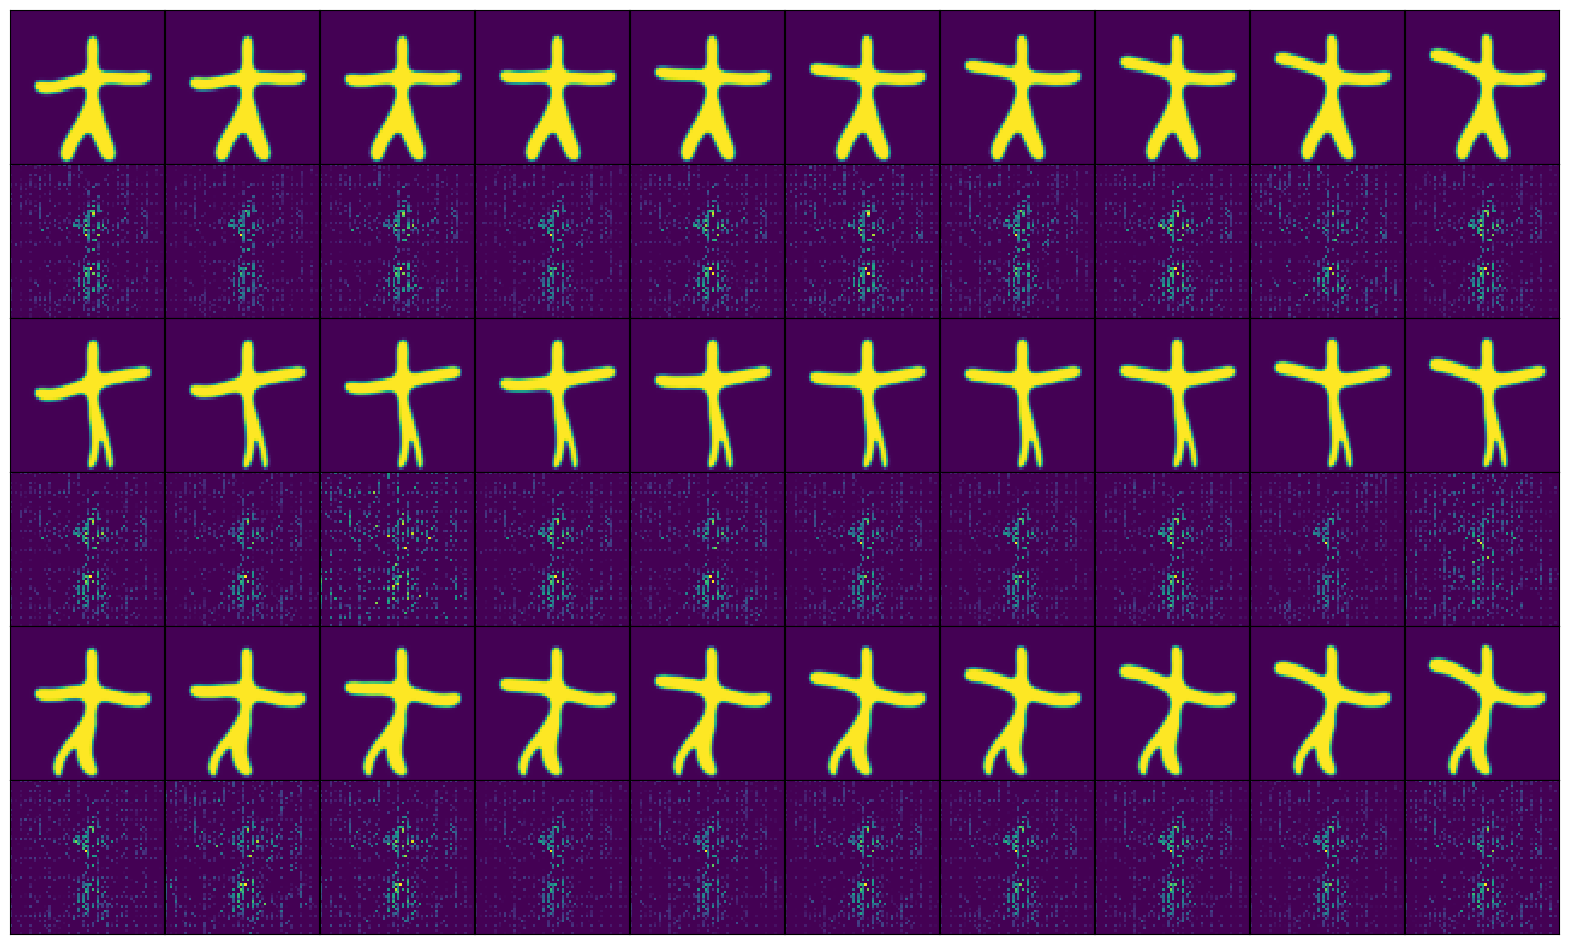
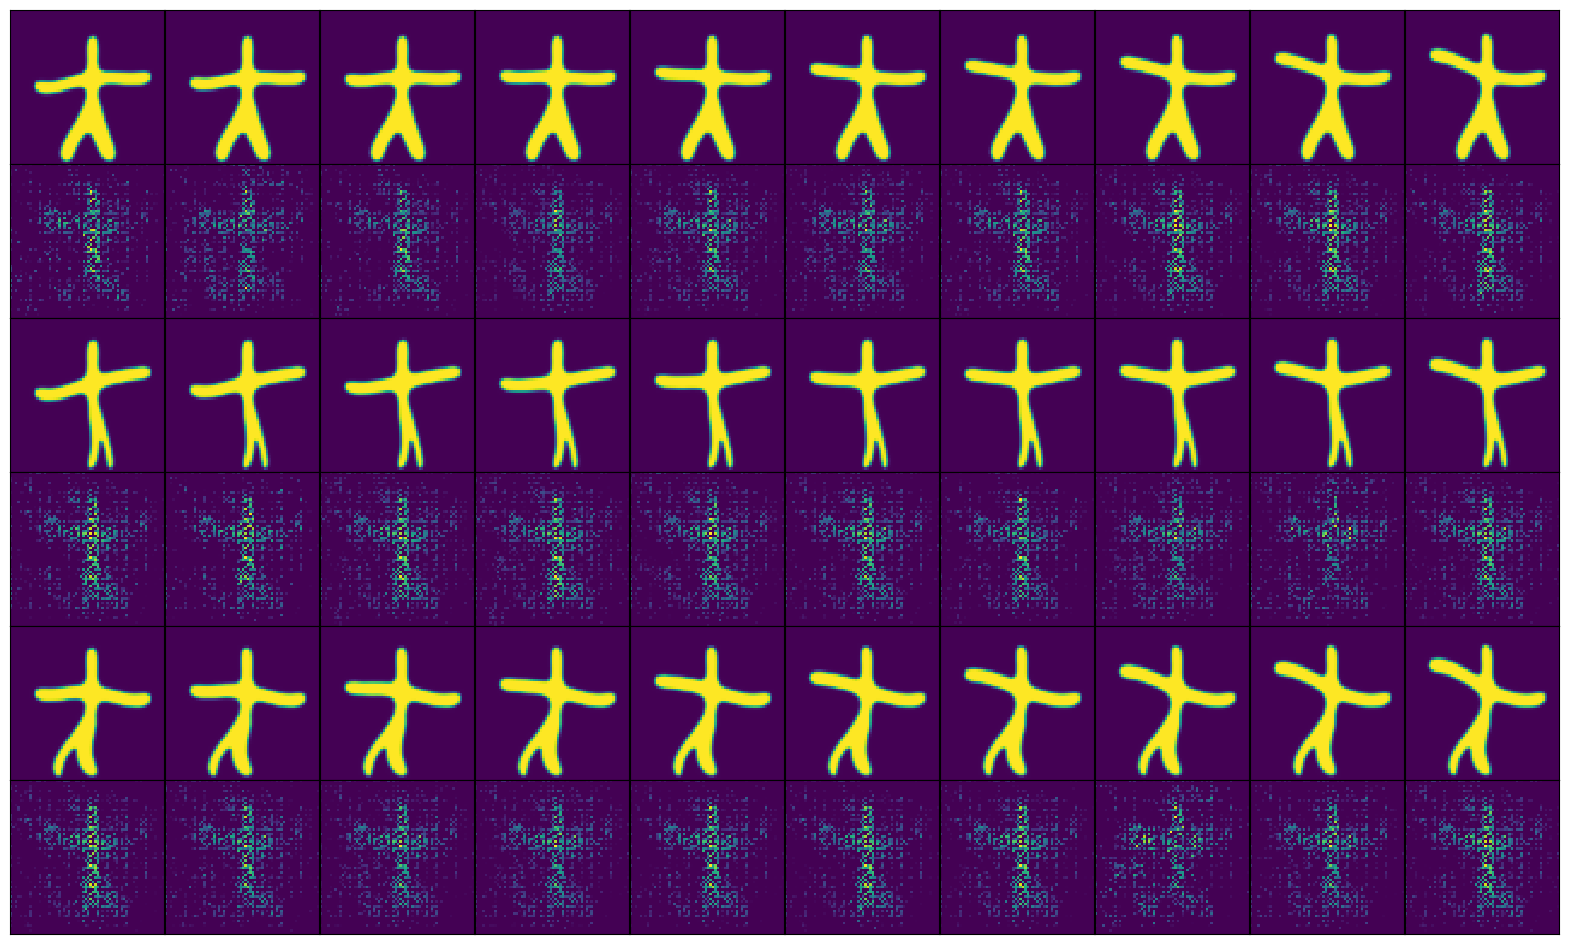
2023-4-6

diff --git a/model.py b/model.py
@@ -1231,7 +1231,7 @@ class beta_VAE(nn.Module):
             for ax in axe:
                 ax.set_xticks([])
                 ax.set_yticks([])
-        plt.savefig('visualization/beta_VAE_recon.png', bbox_inches='tight')
+        plt.savefig('visualization/reconstruction.png', bbox_inches='tight')
         plt.close()
 
 
@@ -2276,7 +2276,7 @@ class Riem_VAE(nn.Module):
         self.name = 'Riem_VAE'
         self.device = torch.device("cuda:0" if torch.cuda.is_available() else "cpu")
         self.beta = 5.
-        self.gamma = 1.
+        self.gamma = 0.1
 
         self.conv1 = nn.Conv2d(1, 16, 3, stride=2, padding=1)  # 16 x 32 x 32
         self.conv2 = nn.Conv2d(16, 32, 3, stride=2, padding=1)  # 32 x 16 x 16
@@ -2343,10 +2343,8 @@ class Riem_VAE(nn.Module):
             subject = torch.tensor([[s for s in data[1]]], device=self.device)
             tp = torch.tensor([[tp for tp in data[4]]], device=self.device)
             idx = (subject * 10 + tp).cpu().detach().numpy().squeeze()
-            alpha = torch.tensor([[a.exp() for a in data[6]]]).to(self.device).float()
-            delta = self.X[:, 1].cpu().detach().numpy()
-
-            delta = torch.tensor(delta[idx]).to(self.device).float()
+            alpha = torch.tensor([[a.exp() for a in data[6]]], device=self.device).float()
+            delta = torch.tensor([[a - ba for a, ba in zip(data[3] - data[2])]], device=self.device)
             fixed = torch.mul(alpha, delta).squeeze()
             omega = self.omega[idx]
             for i, f in enumerate(fixed):
@@ -2475,5 +2473,5 @@ class Riem_VAE(nn.Module):
             for ax in axe:
                 ax.set_xticks([])
                 ax.set_yticks([])
-        plt.savefig('visualization/beta_VAE_recon.png', bbox_inches='tight')
+        plt.savefig('visualization/reconstruction.png', bbox_inches='tight')
         plt.close()

diff --git a/main.py b/main.py
@@ -21,7 +21,7 @@ ch.setFormatter(format)
 logger.addHandler(ch)
 
 device = torch.device("cuda:0" if torch.cuda.is_available() else "cpu")
-fold = 4
+fold = 3
 
 
 if __name__ == '__main__':
